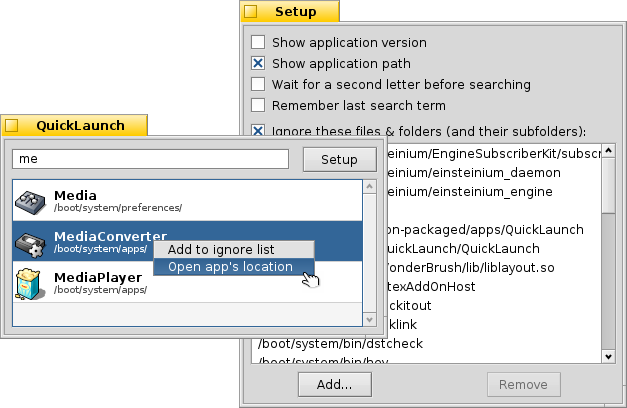
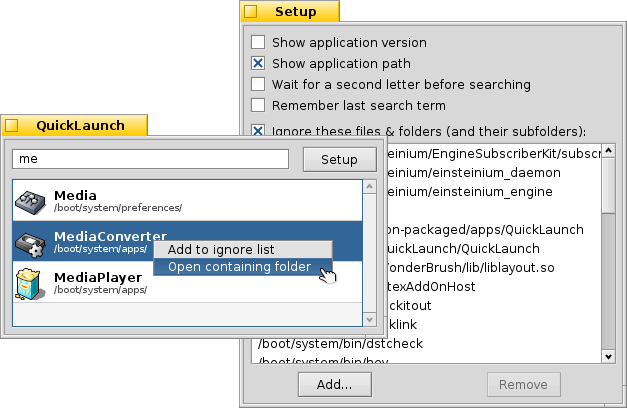
Update documentation. Release!

Changed region(s): [[0.3333, 0.5882, 0.5455, 0.7059]]

diff --git a/ReadMe.html b/ReadMe.html
@@ -217,11 +217,11 @@ Finally, thanks to everyone that contributed translations for QuickLaunch.</p>
 </ul>
 <p><b>0.9.11</b> - <i>16-08-2015:</i></p>
 <ul>
-<li>Add "Open app's location" to the context menu.</li>
+<li>Add "Open containing folder" to the context menu.</li>
 <li>Add an option to always start with the previous search term.</li>
 <li>Have the windows always on top of every other app.</li>
 <li>Add horizontal stroke below every list item.</li>
-<li>Cosmetics on resizing window so the height won't jump.</li>
+<li>Cosmetics on resizing window so the height won't jump and flicker.</li>
 </ul>
 </body>
 </html>

diff --git a/ReadMe.md b/ReadMe.md
@@ -114,8 +114,8 @@ I have to thank DarkWyrm for some helpful hints and for some of the code I re-us
 
 **0.9.11** - _16-08-2015:_
 
-*   Add "Open app's location" to the context menu.
+*   Add "Open containing folder" to the context menu.
 *   Add an option to always start with the previous search term.
 *   Have the windows always on top of every other app.
 *   Add horizontal stroke below every list item.
-*   Cosmetics on resizing window so the height won't jump.
+*   Cosmetics on resizing window so the height won't jump and flicker.
